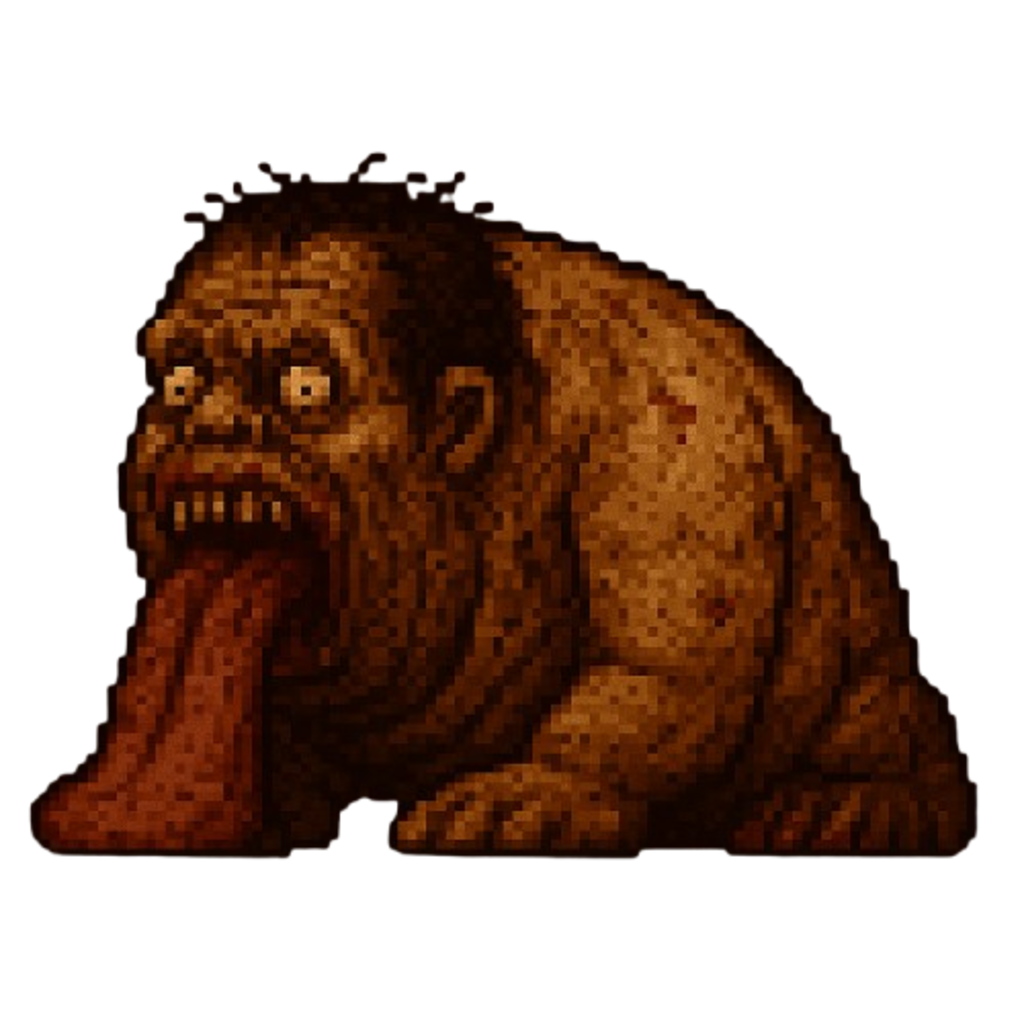
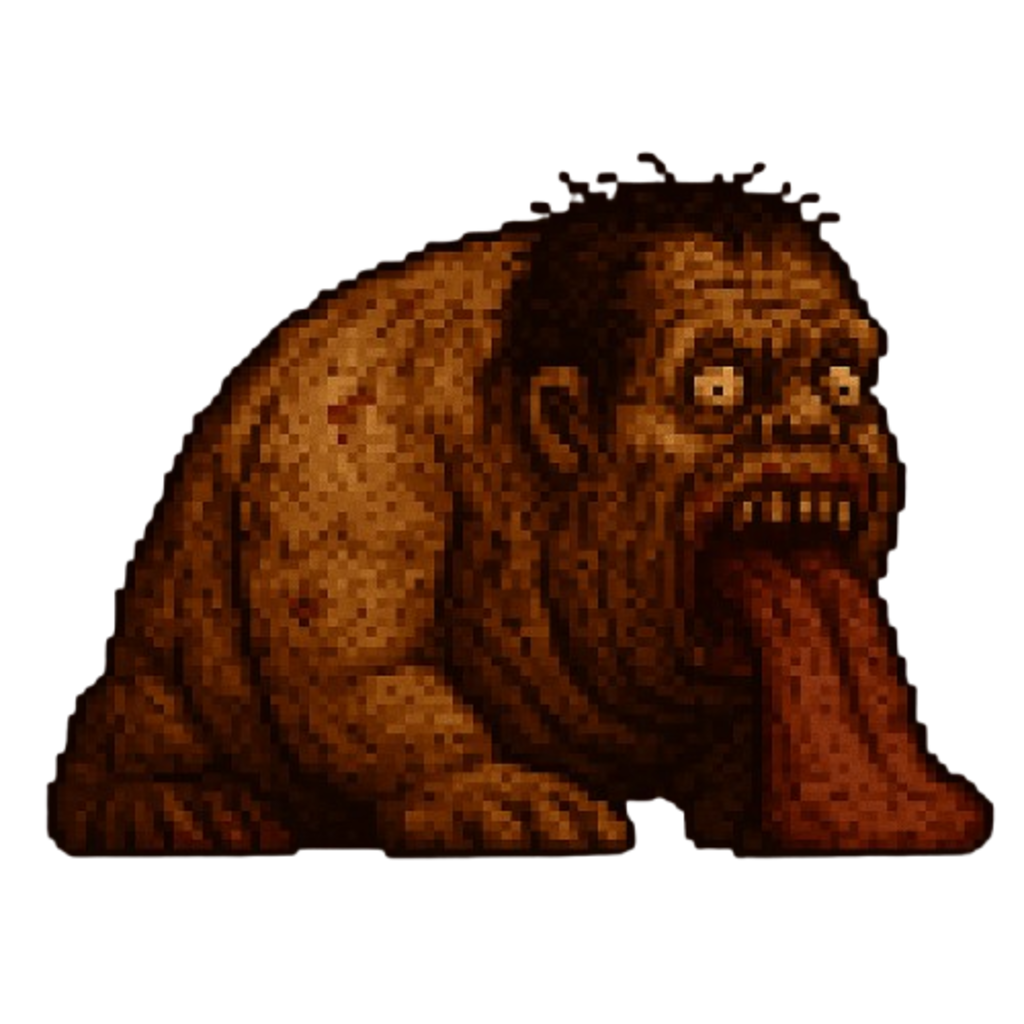
Edições
edições básicas

diff --git a/js/Fase7Scene.js b/js/Fase7Scene.js
@@ -555,9 +555,9 @@ class Fase7Scene extends Phaser.Scene {
     const y = this.player.y + Math.sin(ang) * Phaser.Math.Between(minD, maxD);
 
     const statsMap = {
-      traicao1: { health: 200, speed: 190, damage: 55 },
-      traicao2: { health: 250, speed: 170, damage: 70 },
-      traicao3: { health: 300, speed: 140, damage: 90 },
+      traicao1: { health: 200, speed: 190, damage: 55, scale: 0.3 },
+      traicao2: { health: 250, speed: 170, damage: 70, scale: 0.4 },
+      traicao3: { health: 300, speed: 140, damage: 90, scale: 0.5 },
     };
     const key = Phaser.Math.RND.pick(Object.keys(statsMap));
     const base = statsMap[key];
@@ -573,7 +573,7 @@ class Fase7Scene extends Phaser.Scene {
 
     const e = this.enemies
       .create(x, y, key)
-      .setScale(this.player.scaleX)
+      .setScale(base.scale)
       .setCollideWorldBounds(true);
 
     e.health = enemyHealth;
@@ -587,7 +587,7 @@ class Fase7Scene extends Phaser.Scene {
     const { width, height } = this.scale;
     this.boss = this.physics.add
       .sprite(width / 2, height / 4, "traicaoBoss")
-      .setScale(0.4)
+      .setScale(0.45)
       .setCollideWorldBounds(true);
     this.boss.health = 15000;
     this.boss.damage = 50;
@@ -958,6 +958,13 @@ class Fase7Scene extends Phaser.Scene {
   }
 
   update(time, delta) {
+    this.enemies.getChildren().forEach(enemy => {
+        if (enemy.body.velocity.x < 0) {
+         enemy.setFlipX(true);  // virado para a esquerda
+        } else {
+          enemy.setFlipX(false); // virado para a direita
+        }
+      });
     if (
       Phaser.Input.Keyboard.JustDown(this.shieldKey) &&
       this.secondaryWeapon === "shield" &&

diff --git a/js/Fase1Scene.js b/js/Fase1Scene.js
@@ -552,9 +552,9 @@ class Fase1Scene extends Phaser.Scene {
     const y = this.player.y + Math.sin(ang) * Phaser.Math.Between(minD, maxD);
 
     const statsMap = {
-      luxuria1: { health: 250, speed: 130, damage: 10 },
-      luxuria2: { health: 400, speed: 120, damage: 20 },
-      luxuria3: { health: 600, speed: 80, damage: 30 },
+      luxuria1: { health: 250, speed: 140, damage: 10, scale: 0.1 },
+      luxuria2: { health: 400, speed: 150, damage: 20, scale: 0.12 },
+      luxuria3: { health: 600, speed: 80, damage: 30, scale: 0.11 },
     };
     const key = Phaser.Math.RND.pick(Object.keys(statsMap));
     const base = statsMap[key];
@@ -570,7 +570,7 @@ class Fase1Scene extends Phaser.Scene {
 
     const e = this.enemies
       .create(x, y, key)
-      .setScale(this.player.scaleX)
+      .setScale(base.scale)
       .setCollideWorldBounds(true);
 
     e.health = enemyHealth;
@@ -892,6 +892,16 @@ class Fase1Scene extends Phaser.Scene {
   }
 
   update(time, delta) {
+
+      this.enemies.getChildren().forEach(enemy => {
+        if (enemy.body.velocity.x < 0) {
+         enemy.setFlipX(true);  // virado para a esquerda
+        } else {
+          enemy.setFlipX(false); // virado para a direita
+        }
+      });
+
+      
     if (
       Phaser.Input.Keyboard.JustDown(this.shieldKey) &&
       this.secondaryWeapon === "shield" &&
@@ -972,4 +982,4 @@ class Fase1Scene extends Phaser.Scene {
       e.setVelocity(chase.x, chase.y);
     });
   }
-}
+} 

diff --git a/js/Fase5Scene.js b/js/Fase5Scene.js
@@ -552,9 +552,9 @@ class Fase5Scene extends Phaser.Scene {
     const y = this.player.y + Math.sin(ang) * Phaser.Math.Between(minD, maxD);
 
     const statsMap = {
-      violencia1: { health: 600, speed: 170, damage: 40 },
-      violencia2: { health: 800, speed: 160, damage: 50 },
-      violencia3: { health: 1100, speed: 120, damage: 70 },
+      violencia1: { health: 600, speed: 180, damage: 40, scale: 0.15 },
+      violencia2: { health: 800, speed: 160, damage: 50, scale: 0.12 },
+      violencia3: { health: 1100, speed: 120, damage: 70, scale: 0.1 },
     };
     const key = Phaser.Math.RND.pick(Object.keys(statsMap));
     const base = statsMap[key];
@@ -570,7 +570,7 @@ class Fase5Scene extends Phaser.Scene {
 
     const e = this.enemies
       .create(x, y, key)
-      .setScale(this.player.scaleX)
+      .setScale(base.scale)
       .setCollideWorldBounds(true);
 
     e.health = enemyHealth;
@@ -890,6 +890,13 @@ class Fase5Scene extends Phaser.Scene {
   }
 
   update(time, delta) {
+    this.enemies.getChildren().forEach(enemy => {
+        if (enemy.body.velocity.x < 0) {
+         enemy.setFlipX(true);  // virado para a esquerda
+        } else {
+          enemy.setFlipX(false); // virado para a direita
+        }
+      });
     if (
       Phaser.Input.Keyboard.JustDown(this.shieldKey) &&
       this.secondaryWeapon === "shield" &&

diff --git a/js/Fase3Scene.js b/js/Fase3Scene.js
@@ -551,9 +551,9 @@ class Fase3Scene extends Phaser.Scene {
     const y = this.player.y + Math.sin(ang) * Phaser.Math.Between(minD, maxD);
 
     const statsMap = {
-      avareza1: { health: 350, speed: 150, damage: 20 },
-      avareza2: { health: 500, speed: 140, damage: 30 },
-      avareza3: { health: 800, speed: 100, damage: 45 },
+      avareza1: { health: 350, speed: 150, damage: 20, scale: 0.11 },
+      avareza2: { health: 500, speed: 140, damage: 30, scale: 0.07 },
+      avareza3: { health: 800, speed: 100, damage: 45, scale: 0.14 },
     };
     const key = Phaser.Math.RND.pick(Object.keys(statsMap));
     const base = statsMap[key];
@@ -569,7 +569,7 @@ class Fase3Scene extends Phaser.Scene {
 
     const e = this.enemies
       .create(x, y, key)
-      .setScale(this.player.scaleX)
+      .setScale(base.scale)
       .setCollideWorldBounds(true);
 
     e.health = enemyHealth;
@@ -889,6 +889,13 @@ class Fase3Scene extends Phaser.Scene {
   }
 
   update(time, delta) {
+      this.enemies.getChildren().forEach(enemy => {
+        if (enemy.body.velocity.x < 0) {
+         enemy.setFlipX(true);  // virado para a esquerda
+        } else {
+          enemy.setFlipX(false); // virado para a direita
+        }
+      });
     if (
       Phaser.Input.Keyboard.JustDown(this.shieldKey) &&
       this.secondaryWeapon === "shield" &&

diff --git a/js/Fase6Scene.js b/js/Fase6Scene.js
@@ -552,9 +552,9 @@ class Fase6Scene extends Phaser.Scene {
     const y = this.player.y + Math.sin(ang) * Phaser.Math.Between(minD, maxD);
 
     const statsMap = {
-      fraude1: { health: 800, speed: 190, damage: 55 },
-      fraude2: { health: 1000, speed: 170, damage: 70 },
-      fraude3: { health: 1300, speed: 140, damage: 90 },
+      fraude1: { health: 800, speed: 190, damage: 55, scale: 0.2 },
+      fraude2: { health: 1000, speed: 170, damage: 70, scale: 0.15 },
+      fraude3: { health: 1300, speed: 140, damage: 90, scale: 0.2 },
     };
     const key = Phaser.Math.RND.pick(Object.keys(statsMap));
     const base = statsMap[key];
@@ -570,7 +570,7 @@ class Fase6Scene extends Phaser.Scene {
 
     const e = this.enemies
       .create(x, y, key)
-      .setScale(this.player.scaleX)
+      .setScale(base.scale)
       .setCollideWorldBounds(true);
 
     e.health = enemyHealth;
@@ -891,6 +891,13 @@ class Fase6Scene extends Phaser.Scene {
   }
 
   update(time, delta) {
+    this.enemies.getChildren().forEach(enemy => {
+        if (enemy.body.velocity.x < 0) {
+         enemy.setFlipX(true);  // virado para a esquerda
+        } else {
+          enemy.setFlipX(false); // virado para a direita
+        }
+      });
     if (
       Phaser.Input.Keyboard.JustDown(this.shieldKey) &&
       this.secondaryWeapon === "shield" &&

diff --git a/js/Fase2Scene.js b/js/Fase2Scene.js
@@ -553,9 +553,9 @@ class Fase2Scene extends Phaser.Scene {
     const y = this.player.y + Math.sin(ang) * Phaser.Math.Between(minD, maxD);
 
     const statsMap = {
-      gula1: { health: 300, speed: 140, damage: 15 },
-      gula2: { health: 450, speed: 120, damage: 25 },
-      gula3: { health: 700, speed: 90, damage: 35 },
+      gula1: { health: 300, speed: 140, damage: 15, scale: 0.1 },
+      gula2: { health: 450, speed: 70, damage: 25, scale: 0.08 },
+      gula3: { health: 700, speed: 190, damage: 35, scale: 0.1 },
     };
     const key = Phaser.Math.RND.pick(Object.keys(statsMap));
     const base = statsMap[key];
@@ -571,7 +571,7 @@ class Fase2Scene extends Phaser.Scene {
 
     const e = this.enemies
       .create(x, y, key)
-      .setScale(this.player.scaleX)
+      .setScale(base.scale)
       .setCollideWorldBounds(true);
 
     e.health = enemyHealth;
@@ -891,6 +891,13 @@ class Fase2Scene extends Phaser.Scene {
   }
 
   update(time, delta) {
+      this.enemies.getChildren().forEach(enemy => {
+        if (enemy.body.velocity.x < 0) {
+         enemy.setFlipX(true);  // virado para a esquerda
+        } else {
+          enemy.setFlipX(false); // virado para a direita
+        }
+      });
     if (
       Phaser.Input.Keyboard.JustDown(this.shieldKey) &&
       this.secondaryWeapon === "shield" &&

diff --git a/js/Fase4Scene.js b/js/Fase4Scene.js
@@ -551,9 +551,9 @@ class Fase4Scene extends Phaser.Scene {
     const y = this.player.y + Math.sin(ang) * Phaser.Math.Between(minD, maxD);
 
     const statsMap = {
-      ira1: { health: 450, speed: 160, damage: 30 },
-      ira2: { health: 600, speed: 150, damage: 40 },
-      ira3: { health: 900, speed: 110, damage: 55 },
+      ira1: { health: 450, speed: 90, damage: 30, scale: 0.09 },
+      ira2: { health: 900, speed: 150, damage: 40, scale: 0.5 },
+      ira3: { health: 600, speed: 190, damage: 55, scale: 0.1 },
     };
     const key = Phaser.Math.RND.pick(Object.keys(statsMap));
     const base = statsMap[key];
@@ -569,7 +569,7 @@ class Fase4Scene extends Phaser.Scene {
 
     const e = this.enemies
       .create(x, y, key)
-      .setScale(this.player.scaleX)
+      .setScale(base.scale)
       .setCollideWorldBounds(true);
 
     e.health = enemyHealth;
@@ -889,6 +889,13 @@ class Fase4Scene extends Phaser.Scene {
   }
 
   update(time, delta) {
+    this.enemies.getChildren().forEach(enemy => {
+        if (enemy.body.velocity.x < 0) {
+         enemy.setFlipX(true);  // virado para a esquerda
+        } else {
+          enemy.setFlipX(false); // virado para a direita
+        }
+      });
     if (
       Phaser.Input.Keyboard.JustDown(this.shieldKey) &&
       this.secondaryWeapon === "shield" &&
